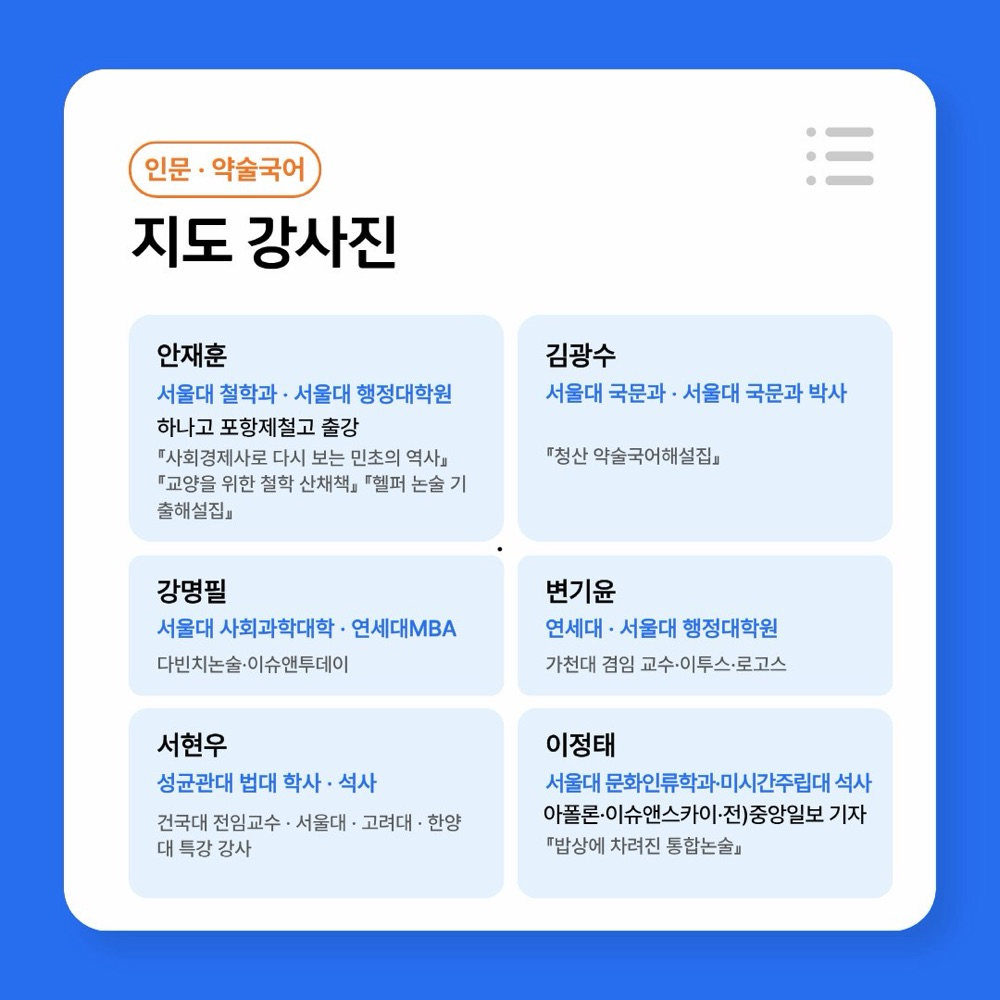
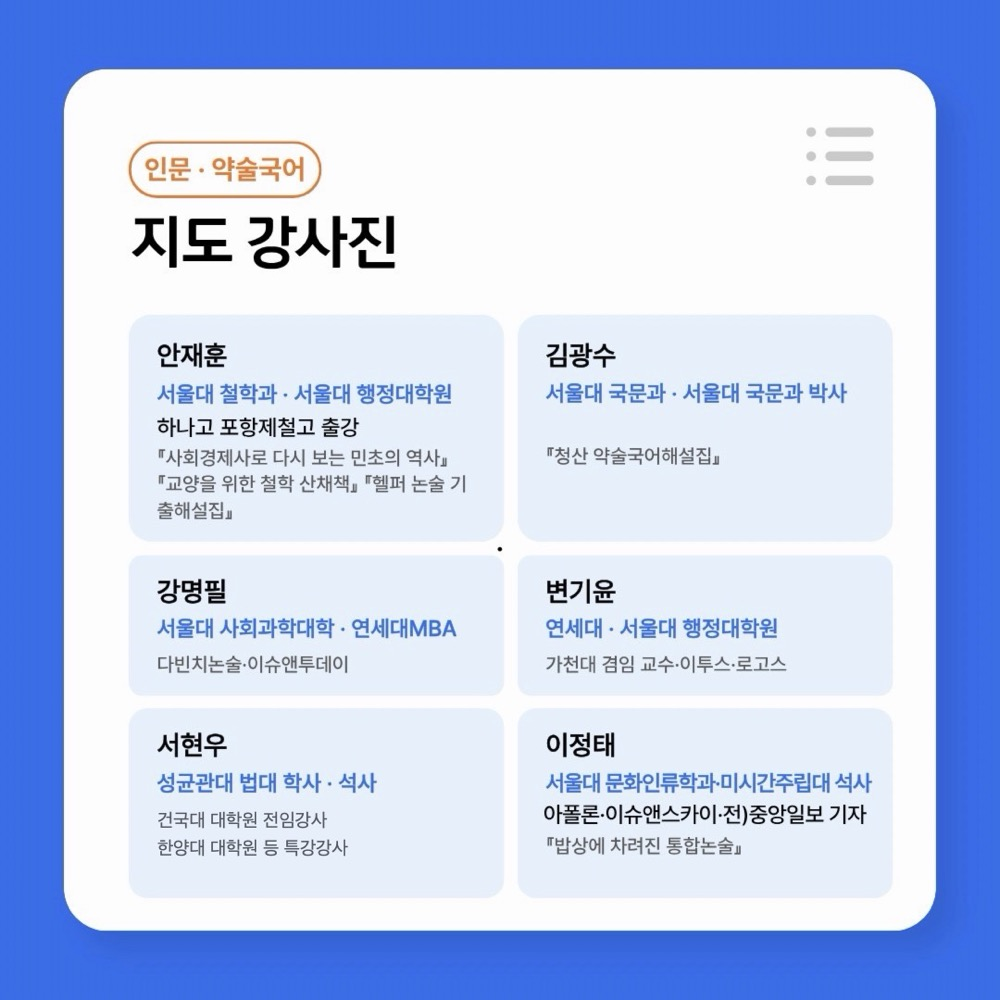
논술 지도강사진 슬라이드: 서현우 약력 수정 (건국대 대학원 전임강사 / 한양대 대학원 등 특강강사)

diff --git a/index.html b/index.html
@@ -657,7 +657,7 @@ more.onclick=showMore; showMore();
 const lb=document.getElementById('lb'), li=lb.querySelector('img'); let cur=0, L=imgs;
 function openLb(i,list){if(list)L=list; else L=imgs; cur=i;li.src=L[i];lb.classList.add('open');}
 function step(d){cur=(cur+d+L.length)%L.length;li.src=L[cur];}
-const NS=Array.from({length:13},(_,i)=>`img/nonsul/n${String(i+1).padStart(2,'0')}.jpg`);
+const NS=Array.from({length:13},(_,i)=>`img/nonsul/n${String(i+1).padStart(2,"0")}.jpg?v=1124`);
 const th=document.getElementById('nsThumbs');
 NS.slice(0,4).forEach((src,i)=>{const b=document.createElement('button');b.innerHTML=`<img loading="lazy" src="${src}" alt="논술 안내 ${i+1}">`;b.onclick=()=>openLb(i,NS);th.appendChild(b);});
 document.getElementById('nsOpen').onclick=()=>openLb(0,NS);
